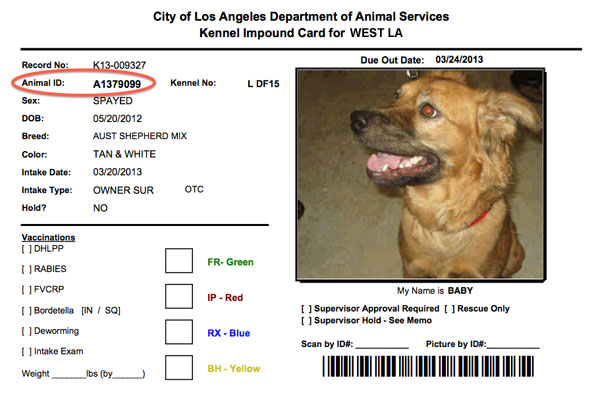
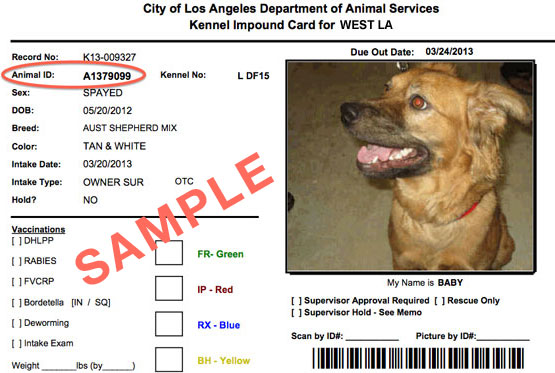
Larger cage card, named Cloudinary transformations, misc CSS fixes

diff --git a/app/assets/stylesheets/custom.css.scss b/app/assets/stylesheets/custom.css.scss
@@ -356,7 +356,7 @@ a {
   background-image: -webkit-linear-gradient(top, $offWhite, $brownLighter);
   background-image: -o-linear-gradient(top, $offWhite, $brownLighter);
   background-image: linear-gradient(top, $offWhite, $brownLighter);
-  border-bottom: 1px solid gray;
+  border-bottom: 1px solid rgba(0, 0, 0, 0.1);
   margin-left: 4px;
   text-align: center;
   color:#722705;
@@ -2467,10 +2467,10 @@ ol.activity {
 .pet-info {
   clear:both;
   float: left;
-  margin: 2px 0 4px 6px;
+  margin: 1px 0 4px 6px;
   padding-top:6px;
   width: 258px;
-  height: 52px;
+  height: 53px;
   overflow: hidden;
   text-overflow: ellipsis;
   h3 {
@@ -2689,9 +2689,12 @@ ol.activity {
   -webkit-box-shadow: 1px 2px 2px rgba(50, 50, 50, 0.12);
   -moz-box-shadow:    1px 2px 2px rgba(50, 50, 50, 0.12);
   box-shadow:         1px 2px 2px rgba(50, 50, 50, 0.12);
-  .leftHalf, rightHalf {
+  .leftHalf {
     width: 410px;
   }
+	.rightHalf {
+		width: 450px;
+	}
   .btn {
     font-size: 14px;
     line-height: 22px;
@@ -2704,19 +2707,18 @@ ol.activity {
   }
 }
 
-.leftHalf {
-  margin-left:20px;
-}
-
-.leftHalf, .rightHalf {
-  float: left;
-  padding: 0 30px 0 30px;
-  width: 378px;
-}
-
-.centerOr {
-  float: left;
-  width: 64px;
+.addContent {
+	.leftHalf, .rightHalf {
+	  float: left;
+	}
+	.leftHalf {
+		width: 340px;
+		padding-left: 40px;
+	}
+	.rightHalf {
+		width: 560px;
+		padding-right: 20px;
+	}
 }
 
 .formHeader {
@@ -2789,6 +2791,7 @@ ol.activity {
   width: 940px;
   min-height: 329px;
 	padding-bottom: 1px;
+	padding-left: 1px;
 }
 
 .possibleScroll {

diff --git a/app/assets/javascripts/functions.js b/app/assets/javascripts/functions.js
@@ -474,7 +474,7 @@ $(function(){
   });
   
   // Show loading interstitial during MatchMe search
-  $('form[id^="edit_user"] :submit').click(function(){
+  $('.match-me').click(function(){
     $('#matchme .findBlurb, #matchme .row, #results').hide();
     $('#waiting').show();
     // Set cookie for generating MatchMe results after submission

diff --git a/app/models/user.rb b/app/models/user.rb
@@ -187,57 +187,61 @@ class User < ActiveRecord::Base
           1.5, -1.5, 0, -1, 1, 0, -2, 1, -1, 2, 0, 0, 2, 1, 1, 1, 1]      
     nearbys = Shelter.near(location, 200, order: "distance").map{|s| s.id} if location.present?
     if nearbys
-    scores = Array.new
-    @matches = Pet.order(:name)
-    @matches = @matches.where('shelter_id in (?)', nearbys)
-    @matches = @matches.where(species_id: species_id) if species_id.present?
-    @matches = @matches.select{|p| p.pet_state.status == "available"}
-    # Calculate match scores for pets in array against user's characteristics
-    @matches = @matches.each_with_index do |p, i|
-      n_col = p_char.index(p.nature.name)
-      el_col = p_char.index(p.energy_level.level)
-      a_col = p_char.index(p.affection.name)
-      if open_value_id.present?
-        row = u_char.index(OpenValue.all[open_value_id - 1].name)
-        scores[i] = matrix[row][n_col] + matrix[row][el_col] + matrix[row][a_col]
+      scores = Array.new
+      @matches = Pet.order(:name)
+      @matches = @matches.where('shelter_id in (?)', nearbys)
+      @matches = @matches.where(species_id: species_id) if species_id.present?
+      @matches = @matches.select{|p| p.pet_state.status == "available"}
+      if !@matches.blank?
+        # Calculate match scores for pets in array against user's characteristics
+        @matches = @matches.each_with_index do |p, i|
+          n_col = p_char.index(p.nature.name)
+          el_col = p_char.index(p.energy_level.level)
+          a_col = p_char.index(p.affection.name)
+          if open_value_id.present?
+            row = u_char.index(OpenValue.all[open_value_id - 1].name).to_i
+            scores[i] = matrix[row][n_col].to_i + matrix[row][el_col].to_i + matrix[row][a_col].to_i
+          end
+          if plan_value_id.present?
+            row = u_char.index(PlanValue.all[plan_value_id - 1].name)
+            scores[i] = scores[i] + matrix[row][n_col].to_i + matrix[row][el_col].to_i + matrix[row][a_col].to_i
+          end
+          if social_value_id.present?
+            row = u_char.index(SocialValue.all[social_value_id - 1].name)
+            scores[i] = scores[i] + matrix[row][n_col].to_i + matrix[row][el_col].to_i + matrix[row][a_col].to_i
+          end
+          if attitude_value_id.present?
+            row = u_char.index(AttitudeValue.all[attitude_value_id - 1].name)
+            scores[i] = scores[i] + matrix[row][n_col].to_i + matrix[row][el_col].to_i + matrix[row][a_col].to_i
+          end
+          if emotion_value_id.present?
+            row = u_char.index(EmotionValue.all[emotion_value_id - 1].name)
+            scores[i] = scores[i] + matrix[row][n_col].to_i + matrix[row][el_col].to_i + matrix[row][a_col].to_i
+          end
+          if clean_value_id.present?
+            row = u_char.index(CleanValue.all[clean_value_id - 1].name)
+            scores[i] = scores[i] + matrix[row][n_col].to_i + matrix[row][el_col].to_i + matrix[row][a_col].to_i
+          end
+          if energy_value_id.present?
+            row = u_char.index(EnergyValue.all[energy_value_id - 1].name)
+            scores[i] = scores[i] + matrix[row][n_col].to_i + matrix[row][el_col].to_i + matrix[row][a_col].to_i
+          end
+        end
+        # Combine match scores with pets in two-dimensional array
+        @matches = @matches.zip(scores)
+        # Modify match scores with mo lookup
+        @matches = @matches.each{|v| v[1] = v[1] + mo[Random.rand(0..35)]}
+        # Limit to those pets with maximum modified match score
+        @matches = @matches.select{|p| p[1] == @matches.map{|v| v[1]}.max}
+        #recapture just the array of pets, stripping out match values
+        @matches = @matches.map{|p| p[0]}
+        # sort by closest shelter
+        @matches = @matches.sort_by {|s| nearbys.index(s.send(:shelter_id))}
+        $match = true
+        @matches
+      else
+        @matches = []
       end
-      if plan_value_id.present?
-        row = u_char.index(PlanValue.all[plan_value_id - 1].name)
-        scores[i] = scores[i] + matrix[row][n_col] + matrix[row][el_col] + matrix[row][a_col]
-      end
-      if social_value_id.present?
-        row = u_char.index(SocialValue.all[social_value_id - 1].name)
-        scores[i] = scores[i] + matrix[row][n_col] + matrix[row][el_col] + matrix[row][a_col]
-      end
-      if attitude_value_id.present?
-        row = u_char.index(AttitudeValue.all[attitude_value_id - 1].name)
-        scores[i] = scores[i] + matrix[row][n_col] + matrix[row][el_col] + matrix[row][a_col]
-      end
-      if emotion_value_id.present?
-        row = u_char.index(EmotionValue.all[emotion_value_id - 1].name)
-        scores[i] = scores[i] + matrix[row][n_col] + matrix[row][el_col] + matrix[row][a_col]
-      end
-      if clean_value_id.present?
-        row = u_char.index(CleanValue.all[clean_value_id - 1].name)
-        scores[i] = scores[i] + matrix[row][n_col] + matrix[row][el_col] + matrix[row][a_col]
-      end
-      if energy_value_id.present?
-        row = u_char.index(EnergyValue.all[energy_value_id - 1].name)
-        scores[i] = scores[i] + matrix[row][n_col] + matrix[row][el_col] + matrix[row][a_col]
-      end
-    end
-    # Combine match scores with pets in two-dimensional array
-    @matches = @matches.zip(scores)
-    # Modify match scores with mo lookup
-    @matches = @matches.each{|v| v[1] = v[1] + mo[Random.rand(0..35)]}
-    # Limit to those pets with maximum modified match score
-    @matches = @matches.select{|p| p[1] == @matches.map{|v| v[1]}.max}
-    #recapture just the array of pets, stripping out match values
-    @matches = @matches.map{|p| p[0]}
-    # sort by closest shelter
-    @matches = @matches.sort_by {|s| nearbys.index(s.send(:shelter_id))}
-    $match = true
-    @matches
     else
       @matches = []
     end

diff --git a/app/helpers/users_helper.rb b/app/helpers/users_helper.rb
@@ -6,7 +6,7 @@ module UsersHelper
     if user.avatar.blank?
       image_tag("blankProfile.png", alt: user.name, class: "avatar", style: "width:#{size}px;")
     else 
-      cloudinary_url = user.avatar.to_s.gsub!(/upload\//,"upload/w_#{size},h_#{size},c_thumb,g_faces,a_exif/")
+      cloudinary_url = user.avatar.to_s.gsub!(/upload/,"upload/a_exif,c_thumb,h_#{size},g_faces,w_#{size}")
       image_tag(cloudinary_url, alt: user.name, class: "avatar")
     end
   end

diff --git a/config/environments/production.rb b/config/environments/production.rb
@@ -52,7 +52,7 @@ ShelterMe::Application.configure do
   # config.action_mailer.raise_delivery_errors = false
   
   # Established mailer default host
-  config.action_mailer.default_url_options = { host: "shelterme.com" }
+  config.action_mailer.default_url_options = { host: "kennel.shelterme.com" } # CHANGE FOR FINAL RELEASE TO SHELTERME.COM
 
   # Configure using Mandrill on Heroku
   config.action_mailer.delivery_method = :smtp

diff --git a/app/controllers/users_controller.rb b/app/controllers/users_controller.rb
@@ -140,9 +140,9 @@ class UsersController < ApplicationController
       flash[:notice] = "You must be signed in to access this page."
       redirect_to join_path
     end
-  rescue
-    flash[:error] = "Unable to find a match for you."
-    redirect_to root_path
+  #rescue
+   # flash[:error] = "Unable to find a match for you."
+    #redirect_to root_path
   end
   
   def sponsored

diff --git a/app/controllers/application_controller.rb b/app/controllers/application_controller.rb
@@ -48,7 +48,6 @@ class ApplicationController < ActionController::Base
   
   def routing_error(exception)
     logger.warn "#{exception.message}"
-    ErrorMailer.error_notification(exception).deliver
     render file: "errors/404"
   end
 
